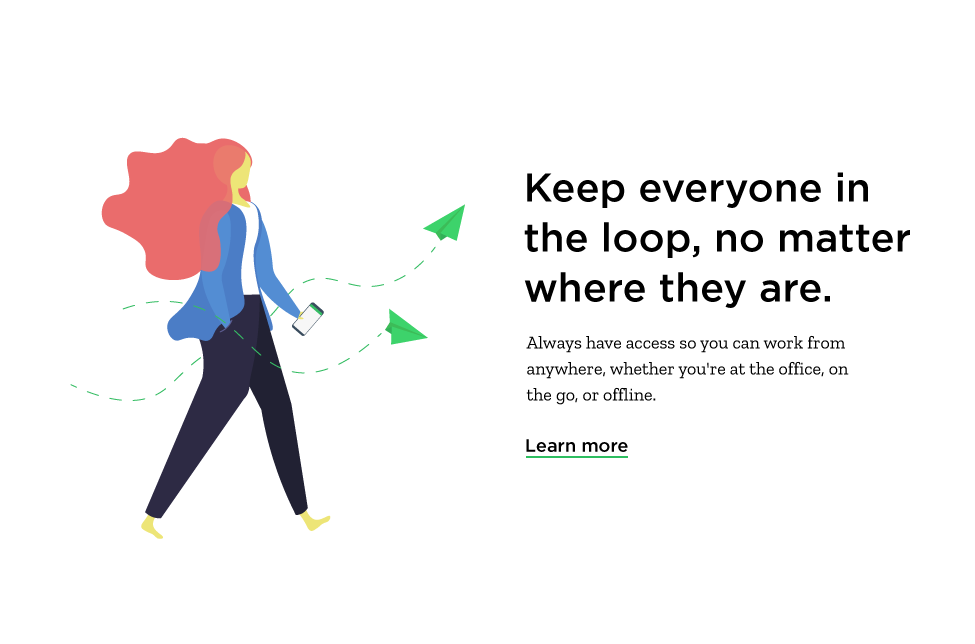
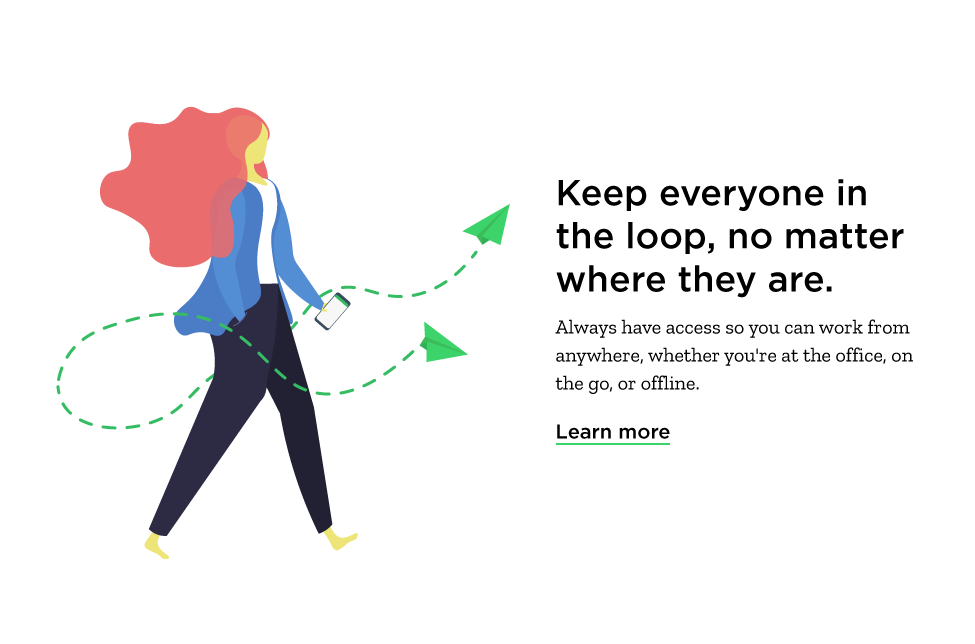
Add new Evernote Inspired graphic

diff --git a/evernoteinspired.html b/evernoteinspired.html
@@ -55,7 +55,10 @@
       <div class="col-md-12">
         <div class="carousel-inner" role="listbox">
           <div class="item active">
-            <img src="imgs/evernoteinspired1.png" alt="Evernote Inspired" class="img-responsive carousel-pic">
+            <img src="imgs/evernoteinspired1.png" alt="Evernote Inspired 1" class="img-responsive carousel-pic">
+          </div>
+          <div class="item">
+            <img src="imgs/evernoteinspired2.png" alt="Evernote Inspired 2" class="img-responsive carousel-pic">
           </div>
         </div>
       </div>
@@ -64,6 +67,7 @@
         <div class="row">
           <ol class="carousel-indicators">
             <li data-target="#myCarousel" data-slide-to="0" class="active"></li>
+            <li data-target="#myCarousel" data-slide-to="1"></li>
           </ol>
         </div>
       </div>
